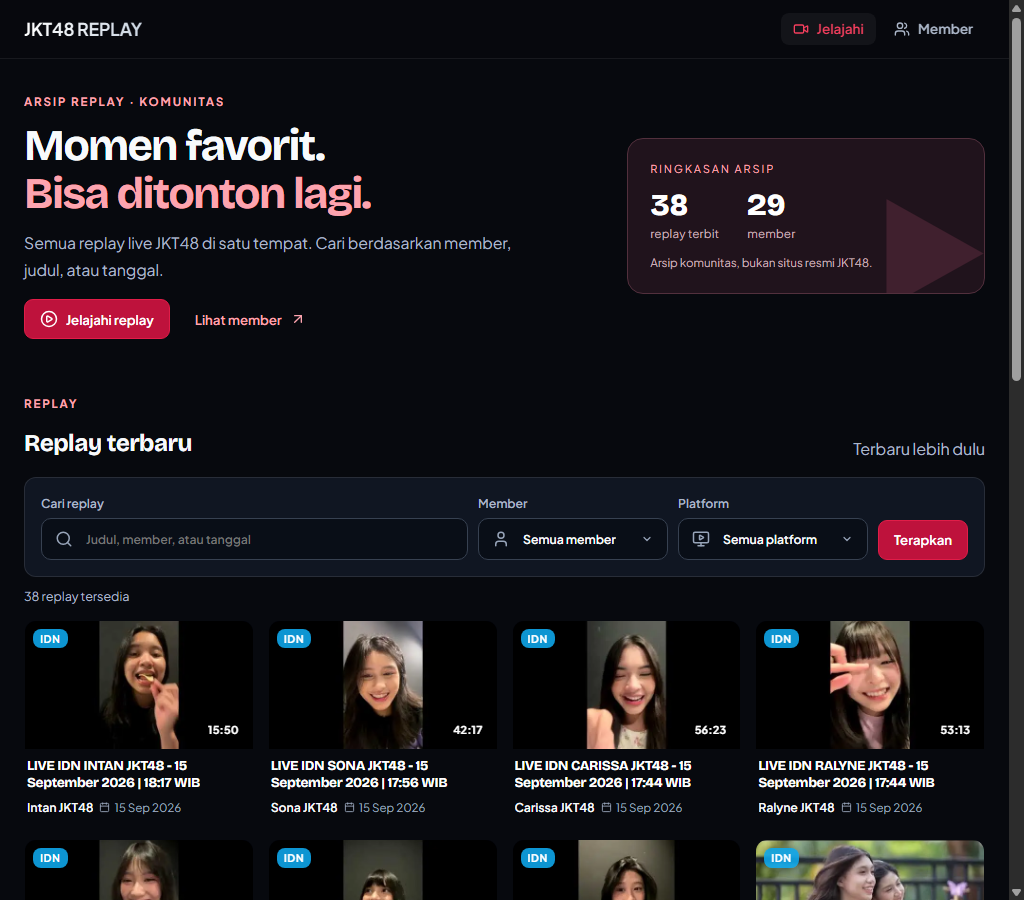
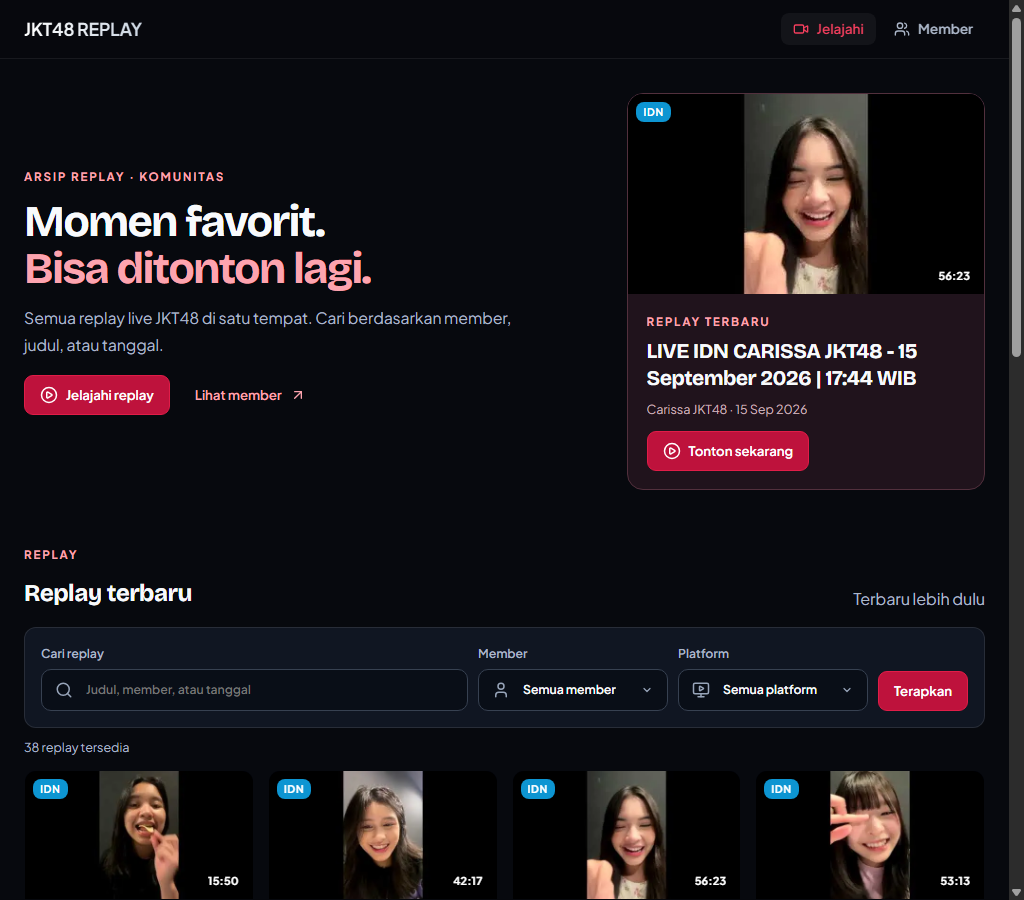
Hero spotlight replay terbaru gantikan panel ringkasan arsip (nol query tambahan, fallback maxres-hqdefault)

diff --git a/web/components/PublicCatalog.tsx b/web/components/PublicCatalog.tsx
@@ -1,6 +1,7 @@
 import Link from 'next/link';
 import { getAllVideos, getPublicMembers, getUpcomingVideos } from '@/lib/db';
 import VideoCard from '@/components/VideoCard';
+import HeroSpotlightThumb from '@/components/HeroSpotlightThumb';
 import { ArrowUpRight, MonitorPlay, PlayCircle, Search, User } from 'lucide-react';
 export default async function PublicCatalog({ searchParams }: { searchParams: Promise<{ q?: string; member?: string; platform?: string; page?: string }> }) {
   const params = await searchParams;
@@ -21,8 +22,14 @@ export default async function PublicCatalog({ searchParams }: { searchParams: Pr
     (a, b) => new Date(b.started_at).getTime() - new Date(a.started_at).getTime()
   );
   const pageUrl = (page: number) => { const p = new URLSearchParams(); if(q) p.set('q', q); if(member) p.set('member', member); if(platform) p.set('platform', platform); p.set('page', String(page)); return `/?${p}#catalog`; };
+  // Spotlight hero: replay terbit terbaru — diambil dari baris pertama hasil
+  // getAllVideos halaman 1 TANPA filter, sehingga nol query tambahan. Saat
+  // pengunjung memakai filter/pencarian/halaman 2+, panel kanan disembunyikan
+  // (hero jadi satu kolom) — spotlight tidak ikut berubah mengikuti filter.
+  const hero = !filtered && result.page === 1 ? result.videos[0] : undefined;
+  const heroWatchUrl = hero ? `/watch/${hero.watch_id || hero.youtube_video_id}` : '/#catalog';
   return <div className="public-catalog">
-    <section className="container catalog-hero"><div><p className="eyebrow">ARSIP REPLAY · KOMUNITAS</p><h1>Momen favorit.<br /><span>Bisa ditonton lagi.</span></h1><p className="hero-copy">Semua replay live JKT48 di satu tempat. Cari berdasarkan member, judul, atau tanggal.</p><div className="hero-actions"><a className="primary-button" href="#catalog"><PlayCircle size={18} /> Jelajahi replay</a><Link href="/members" className="text-button">Lihat member <ArrowUpRight size={16} /></Link></div></div><div className="hero-note"><span className="hero-note-mark" aria-hidden="true">▶</span><p>RINGKASAN ARSIP</p><div className="hero-stats-inline"><div><strong>{result.total}</strong><span>replay terbit</span></div><div><strong>{members.length}</strong><span>member</span></div></div><span className="hero-note-foot">Arsip komunitas, bukan situs resmi JKT48.</span></div></section>
+    <section className="container catalog-hero"><div><p className="eyebrow">ARSIP REPLAY · KOMUNITAS</p><h1>Momen favorit.<br /><span>Bisa ditonton lagi.</span></h1><p className="hero-copy">Semua replay live JKT48 di satu tempat. Cari berdasarkan member, judul, atau tanggal.</p><div className="hero-actions"><a className="primary-button" href="#catalog"><PlayCircle size={18} /> Jelajahi replay</a><Link href="/members" className="text-button">Lihat member <ArrowUpRight size={16} /></Link></div></div>{hero ? <article className="hero-spotlight"><HeroSpotlightThumb video={hero} watchUrl={heroWatchUrl} /><div className="hero-spotlight-body"><p className="eyebrow">{hero.is_new ? 'BARU TERBIT' : 'REPLAY TERBARU'}</p><Link href={heroWatchUrl}><h2 className="hero-spotlight-title" title={hero.title}>{hero.title}</h2></Link><p className="hero-spotlight-meta">{hero.streamer_name} · {hero.date_display || hero.started_at}</p><Link href={heroWatchUrl} className="primary-button"><PlayCircle size={18} /> Tonton sekarang</Link></div></article> : <div className="hero-note"><p>ARSIP REPLAY</p><span className="hero-note-foot">Replay yang sudah terbit akan tampil di sini.</span></div>}</section>
     <section className="container page-section" id="catalog"><header className="section-heading"><div><p className="eyebrow">REPLAY</p><h2>{filtered ? 'Hasil pencarian' : 'Replay terbaru'}</h2></div><p>Terbaru lebih dulu</p></header>
       <form action="/#catalog" method="GET" className="catalog-filters"><label className="catalog-search">Cari replay<span className="input-with-icon"><Search size={18} aria-hidden="true" /><input name="q" type="search" id="catalog-search-input" defaultValue={q} maxLength={100} placeholder="Judul, member, atau tanggal" /></span></label><label className="catalog-select">Member<span className="select-with-icon"><User size={18} aria-hidden="true" /><select name="member" defaultValue={member}><option value="">Semua member</option>{member && !members.some(m => m.username === member) && <option value={member}>{member}</option>}{members.map(m => <option value={m.username} key={m.username}>{m.display_name}</option>)}</select></span></label><label className="catalog-select">Platform<span className="select-with-icon"><MonitorPlay size={18} aria-hidden="true" /><select name="platform" defaultValue={platform}><option value="">Semua platform</option><option value="idn">IDN Live</option><option value="showroom">Showroom</option></select></span></label><div className="filter-actions"><button className="primary-button">Terapkan</button>{filtered && <Link href="/#catalog" className="text-button">Reset</Link>}</div></form>
       <p className="result-summary">{result.total} replay tersedia{upcoming.length > 0 ? ` (+${upcoming.length} segera hadir)` : ''}{q && <> untuk “{q}”</>}</p>

diff --git a/web/app/portal.css b/web/app/portal.css
@@ -30,6 +30,20 @@ button:disabled { cursor: not-allowed; opacity: .5; }
 .hero-copy { max-width: 520px; margin: 12px 0 16px; line-height: 1.7; font-size: clamp(.88rem, .85rem + .4vw, .98rem); }
 .hero-actions { display: flex; flex-wrap: wrap; gap: 10px; }
 .hero-actions .primary-button, .hero-actions .text-button { flex: 0 1 auto; }
+/* Spotlight replay terbaru — menggantikan panel statistik RINGKASAN ARSIP. */
+.hero-spotlight { position: relative; overflow: hidden; border: 1px solid #52303d; background: #20131c; border-radius: 16px; display: flex; flex-direction: column; min-width: 0; }
+.hero-spotlight-thumb { position: relative; display: block; width: 100%; aspect-ratio: 16 / 9; background: #020617; overflow: hidden; }
+.hero-spotlight-img { object-fit: cover; }
+.hero-spotlight-thumb:hover .hero-spotlight-img { transform: scale(1.04); }
+.hero-spotlight-img { transition: transform .4s ease; }
+.hero-spotlight-play { position: absolute; inset: 0; display: grid; place-items: center; color: #fff; opacity: 0; background: rgba(2,6,23,.45); transition: opacity .2s ease; }
+.hero-spotlight-thumb:hover .hero-spotlight-play, .hero-spotlight-thumb:focus-visible .hero-spotlight-play { opacity: 1; }
+.hero-spotlight-body { padding: clamp(14px, 1.8vw, 20px); display: flex; flex-direction: column; gap: 8px; min-width: 0; }
+.hero-spotlight-body .eyebrow { margin-bottom: 0; }
+.hero-spotlight-title { font-size: clamp(1rem, .92rem + .8vw, 1.3rem); line-height: 1.3; overflow-wrap: break-word; display: -webkit-box; -webkit-line-clamp: 2; -webkit-box-orient: vertical; overflow: hidden; }
+.hero-spotlight-title:hover { color: #fda4af; }
+.hero-spotlight-meta { color: #c6aeb8; font-size: .78rem; }
+.hero-spotlight-body .primary-button { margin-top: 4px; align-self: flex-start; }
 .hero-note { position: relative; overflow: hidden; border: 1px solid #52303d; background: #20131c; border-radius: 16px; padding: clamp(16px, 2.2vw, 22px); min-height: 0; display: flex; flex-direction: column; justify-content: center; gap: 12px; }
 .hero-note > :not(.hero-note-mark) { position: relative; }
 .hero-note > p { color: #fda4af; font-size: .68rem; letter-spacing: .18em; }
@@ -78,6 +92,7 @@ button:disabled { cursor: not-allowed; opacity: .5; }
   .catalog-filters .filter-actions .primary-button { flex: 1 1 auto; }
   /* Tombol hero jadi lebar penuh agar mudah dijangkau jempol. */
   .hero-actions .primary-button, .hero-actions .text-button { flex: 1 1 100%; }
+  .hero-spotlight-body .primary-button { align-self: stretch; text-align: center; }
   /* Kartu ringkasan tidak perlu cetakan besar di layar sempit. */
   .hero-note-mark { display: none; }
 }

diff --git a/web/components/HeroSpotlightThumb.tsx b/web/components/HeroSpotlightThumb.tsx
@@ -1,0 +1,39 @@
+'use client';
+
+import { useState } from 'react';
+import Link from 'next/link';
+import Image from 'next/image';
+import { PlayCircle } from 'lucide-react';
+import type { VideoItem } from '@/lib/db';
+
+/**
+ * Thumbnail hero dengan fallback berlapis — pola yang sama dengan VideoCard:
+ * maxresdefault → hqdefault. Tanpa ini, video tanpa varian maxres menampilkan
+ * ikon gambar rusak di spotlight (next/image tidak punya onError global).
+ */
+export default function HeroSpotlightThumb({ video, watchUrl }: { video: VideoItem; watchUrl: string }) {
+  const maxres = video.youtube_video_id ? `https://img.youtube.com/vi/${video.youtube_video_id}/maxresdefault.jpg` : video.thumbnail_url;
+  const fallback = video.youtube_video_id ? `https://img.youtube.com/vi/${video.youtube_video_id}/hqdefault.jpg` : video.thumbnail_url;
+  const [src, setSrc] = useState(maxres || fallback);
+  return (
+    <Link href={watchUrl} className="hero-spotlight-thumb" aria-label={`Tonton ${video.title}`}>
+      {src ? (
+        <Image
+          src={src}
+          alt={video.title}
+          fill
+          sizes="(max-width: 720px) 100vw, 420px"
+          className="hero-spotlight-img"
+          onError={() => { if (src !== fallback) setSrc(fallback); }}
+        />
+      ) : null}
+      <span className={`platform-badge ${video.platform}`}>
+        {video.platform === 'idn' ? 'IDN' : 'Showroom'}
+      </span>
+      {video.duration_formatted ? (
+        <span className="duration-badge">{video.duration_formatted}</span>
+      ) : null}
+      <span className="hero-spotlight-play" aria-hidden="true"><PlayCircle size={44} /></span>
+    </Link>
+  );
+}
